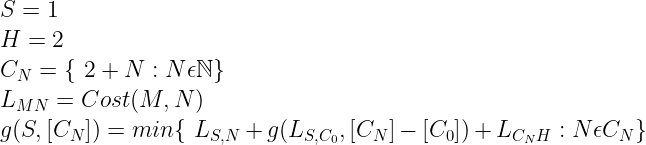
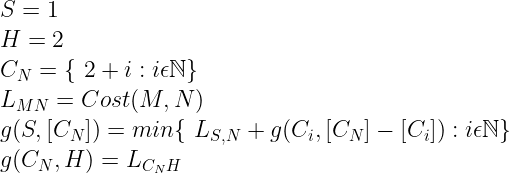
updated equation

Changed region(s): [[0.0, 0.1655, 1.0, 1.0], [0.0, 0.0, 0.1176, 0.1379], [0.3529, 0.8, 0.3824, 0.8276]]

diff --git a/readme.md b/readme.md
@@ -32,11 +32,11 @@ The problem can be represented as an undirected weighted graph since every city 
 
 The solution can then be formulated as below.
 
-<!-- S = 1 \\
+<!-- \\S = 1 \\
 H = 2 \\
-C_N = \{\ 2+N:N\epsilon\mathbb{N} \}  \\
+C_N = \{\ 2+i:i\epsilon\mathbb{N} \}  \\
 L_{MN} = Cost(M,N) \\
-g(S, [C_N]) = min \{\ L_{S,N} + g(L_{S,C_0} , [C_N]-[C_0]) + L_{C_NH}:
-                N\epsilon C_N \} -->
+g(S, [C_N]) = min \{\ L_{S,N} + g(C_i , [C_N]-[C_i]): i\epsilon\mathbb{N} \} \\
+g(C_N, H) = L_{C_NH} -->
 
 <img src="images/equations/tsp_eqn.png"/>
